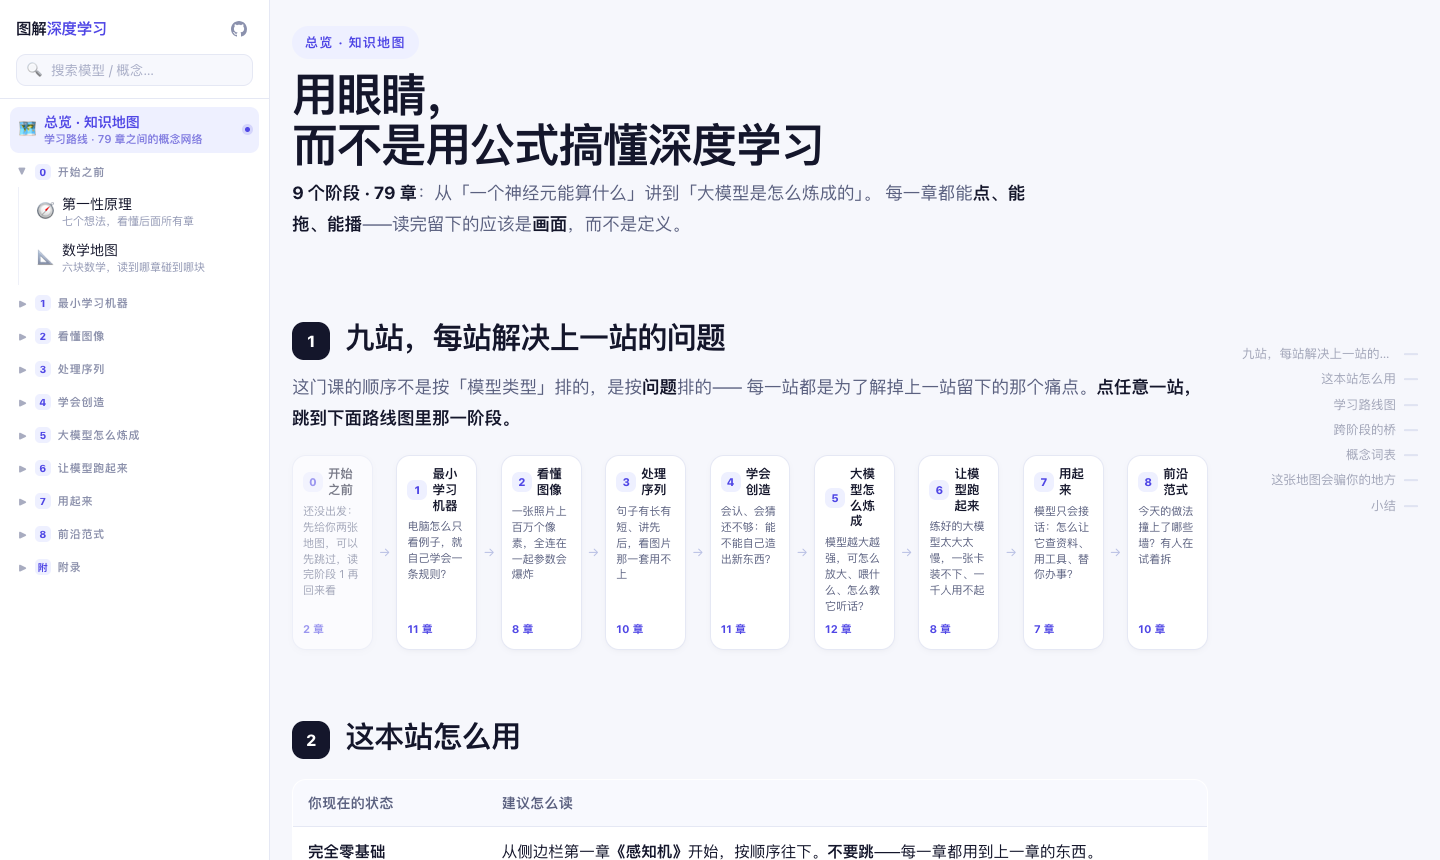
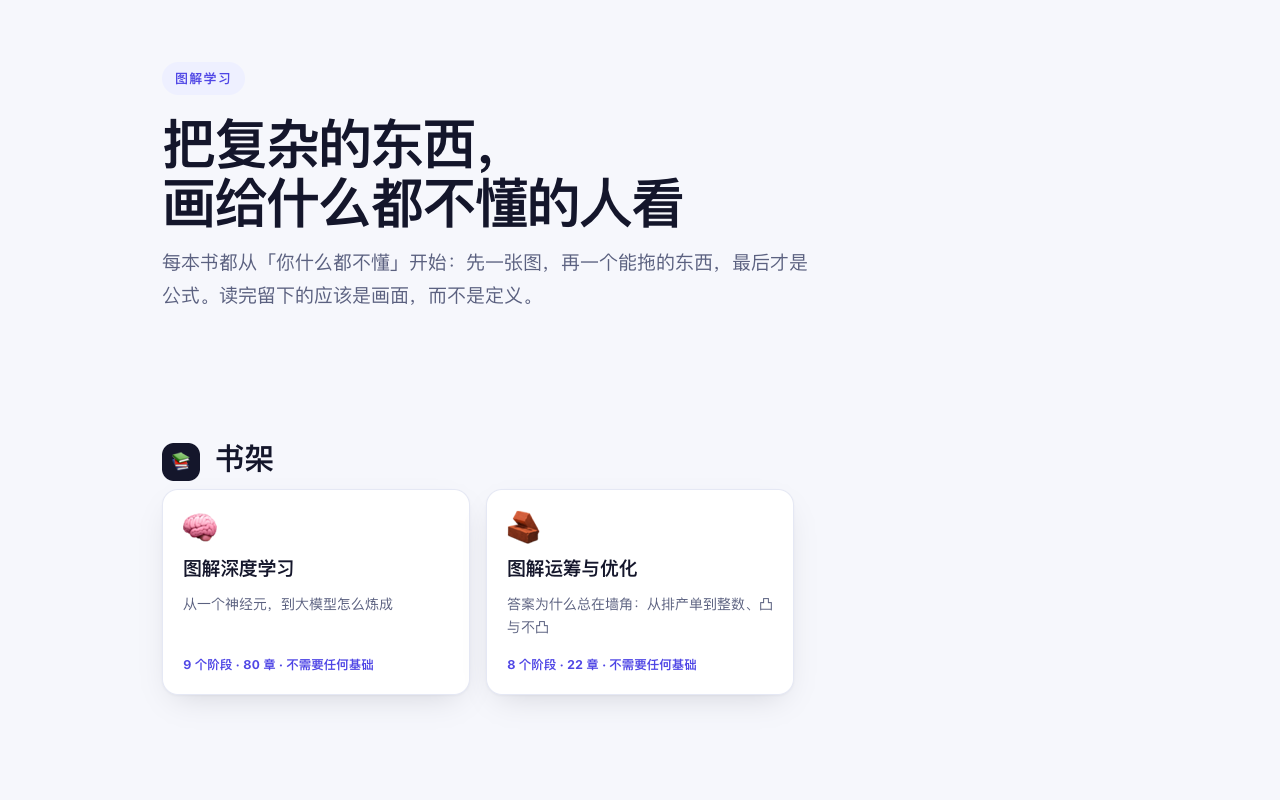
docs: turn the README into a two-book bookshelf, add the operations research book and refresh screenshots

diff --git a/README.md b/README.md
@@ -1,12 +1,12 @@
 <div align="center">
 
-# 图解深度学习
+# 图解学习
 
-**用眼睛，而不是用公式搞懂深度学习**
+**把复杂的东西，画给什么都不懂的人看**
 
-从「一个神经元能算什么」到「大模型到底在想什么」
+大图少字，能点能拖，读完留下的应该是画面，不是定义
 
-**9 个阶段 · 80 章 · 全部完成 · 完全免费**
+**2 本书 · 102 章 · 完全免费**
 
 ## 👉 [**learn.wizardwu.top**](https://learn.wizardwu.top) 👈
 
@@ -15,13 +15,33 @@
 [![断网可用](https://img.shields.io/badge/离线-可用-success)](https://learn.wizardwu.top)
 [![许可](https://img.shields.io/badge/内容-CC%20BY--NC--SA%204.0-lightgrey)](./LICENSE-CONTENT)
 
-**同一个站点还有第二本书：** 📚 [《图解运筹与优化》](https://learn.wizardwu.top/or/)（8 个阶段 · 18 章）——从一张排产单讲到整数、弯的世界，再讲到它和深度学习的关系。
-
 </div>
 
 <div align="center">
-  <img src="./assets/hero.png" alt="首页：学习路线图" width="880">
-  <br><br>
+  <img src="./assets/hero.png" alt="书架首页：两本书" width="880">
+</div>
+
+## 书架
+
+| | 书 | 讲什么 | 规模 | 入口 |
+|---|---|---|---|---|
+| 🧠 | **图解深度学习** | 从「一个神经元能算什么」到「大模型到底在想什么」 | 9 个阶段 · 80 章 | [在线读](https://learn.wizardwu.top/deeplearning) |
+| 🧱 | **图解运筹与优化** | 答案为什么总在墙角：从一张排产单，讲到整数、凸与不凸，再讲到它和深度学习的关系 | 8 个阶段 · 22 章 | [在线读](https://learn.wizardwu.top/or/) |
+
+两本书用同一套写法：每章先一张图，再一个能拖的东西，最后才是公式。不需要任何基础，不需要装环境。
+
+<div align="center">
+  <img src="./assets/dl-hero.png" alt="图解深度学习：学习路线图" width="430">
+  <img src="./assets/or-hero.png" alt="图解运筹与优化：总览" width="430">
+  <br>
+  <em>↑ 左：《图解深度学习》首页。右：《图解运筹与优化》首页。</em>
+</div>
+
+---
+
+## 《图解深度学习》
+
+<div align="center">
   <img src="./assets/demo.png" alt="五个优化器在同一片损失地形上赛跑" width="880">
   <br>
   <em>↑ 五个优化器在同一片峡谷地形上赛跑。SGD 沿谷底来回横跳，AdamW 直奔谷底。</em>
@@ -31,7 +51,7 @@
 
 ## 为什么会有这个网站
 
-网上的深度学习教程很多，但真正适合「完全不懂的人」的很少。常见的三种读不下去：
+网上讲深度学习、讲运筹优化的教程很多，但真正适合「完全不懂的人」的很少。常见的三种读不下去：
 
 | 读不下去的原因 | 这个网站怎么解决 |
 |---|---|
@@ -151,14 +171,14 @@ LoRA（大模型）     →  一致性模型  「压缩」
 | **分布式训练** | ZeRO 各阶段显存 112 → 38.5 → 26.25 → 14.0 GB |
 | **持续学习** | 真的训练一个网络演示灾难性遗忘，旧任务准确率断崖下跌 |
 
-规模上：**708 个 `<canvas>`**、**115 处内联 SVG 图解**、**2815 次交互组件调用**——每一个背后都是真的在算。
+深度学习这本书的规模：**708 个 `<canvas>`**、**115 处内联 SVG 图解**、**2815 次交互组件调用**——每一个背后都是真的在算。
 
 **零依赖 · 断网可用**：纯静态 HTML + CSS + 原生 JS。没有框架、没有构建步骤、没有 CDN。
-下载下来双击 `index.html` 就能看，飞机上也能看。
+下载下来双击 `index.html`（书架首页）就能看，飞机上也能看。
 
 ---
 
-## 课程地图
+### 课程地图
 
 | 部分 | 主题 | 章数 | 这一部分在讲什么 |
 |---|---|---|---|
@@ -305,8 +325,128 @@ LoRA（大模型）     →  一致性模型  「压缩」
 
 ---
 
+## 《图解运筹与优化》
+
+<div align="center">
+  <img src="./assets/or-demo.png" alt="把赚钱线从里往外推，看它最后停在哪个角" width="880">
+  <br>
+  <em>↑ 把「赚钱线」从里往外推：推到 c = 155 时，它只碰到一个点，一个角。这就是最优解为什么总在角上。</em>
+</div>
+
+### 这门学问只做一件事
+
+**在不超出限制的所有选法里，挑最好的那一个。** 全书只讲三步：把问题写成式子 → 换一个能算的写法 → 选一种保证（证明最优、给上下界、还是经验上够好）。
+
+### 四条贯穿全书的线
+
+| 线 | 它问什么 | 一句话 |
+|---|---|---|
+| ① 墙 | 为什么最好的方案总贴着限制？ | 东西不够用，好方案一定把某面墙用到头；贴着的墙因此有价钱 |
+| ② 界 | 凭什么说它已经是最好的？ | 一个方案从下面往上顶（底线），一张价表从上面往下压（天花板），两头贴住就是证明 |
+| ③ 形状 | 为什么有的问题一眨眼解完，有的永远算不完？ | 地是直的、碗是单个的，顺着走就行；有断、有坑，就只能试 |
+| ④ 写法 | 同一件事，怎么写才算得动？ | 变量、目标、墙怎么写，决定电脑算一秒还是一年；弱的写法可以削成强的 |
+
+第一性原理页「一张图看穿运筹」把四条线收成一张图：**底线往上顶，天花板往下压**。
+
+### 页面里真实发生的事
+
+| 章 | 你在页面上做的事 |
+|---|---|
+| **可行域与顶点** | 把赚钱线从原点往外推，推到 c = 155 时只剩一个角 |
+| **模型也会撒谎** | 同一道题两种写法，真答案都是 200；把 M 从 45 拖到 10⁶，最乐观的界从 148.9 一路掉到 100.002 |
+| **把弯的拧直** | 三台烤炉分单，最优时三根柱子一样高；把最远的客户挪远，书店最好的位置纹丝不动 |
+| **把「或者」写成式子** | 五条规矩一条条盖到 64 种方案上，亮着的越来越少 |
+| **一个模子套全世界** | 运输、指派、排班、覆盖、最短路，拆成同一副三格骨架 |
+| **每堵墙都有价钱** | 拖动烤箱额度，价格在哪里换档 |
+
+### 课程地图
+
+| 部分 | 主题 | 章数 |
+|---|---|---|
+| 开篇 | **开始之前** | 2 |
+| 1 | **把话变成式子** | 4 |
+| 2 | **线性世界** | 5 |
+| 3 | **整数世界** | 4 |
+| 4 | **图与时间** | 2 |
+| 5 | **弯的世界** | 2 |
+| 6 | **没有保证的时候** | 2 |
+| 7 | **出口** | 1 |
+| | **合计** | **22** |
+
+<details>
+<summary><b>展开全部 22 章（点标题直接进在线版）</b></summary>
+
+### 开篇 · 开始之前 —— 先补够用的数学
+
+| # | 章 | 一句话 |
+|---|---|---|
+| 0.1 | 🧭 **[一张图看穿运筹](https://learn.wizardwu.top/or/pages/essence.html)** | 底线往上顶，天花板往下压 |
+| 0.2 | 📐 **[够用的数学](https://learn.wizardwu.top/or/pages/prereq.html)** | 直线、不等式、斜率 |
+
+### 阶段 1 · 把话变成式子 —— 现实问题 → 变量、目标、约束
+
+| # | 章 | 一句话 |
+|---|---|---|
+| 1.1 | 🧾 **[一张排产单](https://learn.wizardwu.top/or/pages/model.html)** | 变量、目标、墙 |
+| 1.2 | 🗺 **[一个模子套全世界](https://learn.wizardwu.top/or/pages/zoo.html)** | 运输、指派、排班、覆盖、最短路 |
+| 1.3 | 🪞 **[模型也会撒谎](https://learn.wizardwu.top/or/pages/formulation.html)** | 同一题的胖写法与瘦写法 |
+| 1.4 | 🪢 **[把弯的拧直](https://learn.wizardwu.top/or/pages/tricks.html)** | 最大最小、绝对值、标准形 |
+
+### 阶段 2 · 线性世界 —— 全是直线的问题，最优在哪
+
+| # | 章 | 一句话 |
+|---|---|---|
+| 2.1 | 🔷 **[可行域与顶点](https://learn.wizardwu.top/or/pages/lp-geometry.html)** | 最优的那一点，为什么总卡在角上 |
+| 2.2 | 🚶 **[沿边走一圈](https://learn.wizardwu.top/or/pages/simplex.html)** | 从一个角走到更好的邻居 |
+| 2.3 | 🏷 **[每堵墙都有价钱](https://learn.wizardwu.top/or/pages/shadow-price.html)** | 墙挪一格，最优值变多少 |
+| 2.4 | 📜 **[答案的收据](https://learn.wizardwu.top/or/pages/duality.html)** | 弱对偶、强对偶：界把最优值夹在中间 |
+| 2.5 | 🌫 **[无解、无界、还有一堆解](https://learn.wizardwu.top/or/pages/lp-edge.html)** | 求解器报 infeasible 不是程序坏了 |
+
+### 阶段 3 · 整数世界 —— 东西必须整批，地形就碎了
+
+| # | 章 | 一句话 |
+|---|---|---|
+| 3.1 | 🧱 **[必须整批](https://learn.wizardwu.top/or/pages/integer.html)** | 四舍五入为什么会放跑最优 |
+| 3.2 | 🔀 **[把「或者」写成式子](https://learn.wizardwu.top/or/pages/logic.html)** | 最多选几个、若…则…、二选一 |
+| 3.3 | 🌳 **[把搜索画成树](https://learn.wizardwu.top/or/pages/bnb.html)** | 分支定界：界把整棵枝剪掉 |
+| 3.4 | ✂ **[把松弛削瘦](https://learn.wizardwu.top/or/pages/cuts.html)** | 割平面 |
+
+### 阶段 4 · 图与时间 —— 问题有结构，就别硬算
+
+| # | 章 | 一句话 |
+|---|---|---|
+| 4.1 | 🕸 **[管道、割与最短路](https://learn.wizardwu.top/or/pages/network.html)** | 最大流等于最窄的割 |
+| 4.2 | 🪜 **[一张表算到底](https://learn.wizardwu.top/or/pages/dp.html)** | 动态规划与贝尔曼 |
+
+### 阶段 5 · 弯的世界 —— 墙变弯了，还能找到最好的吗
+
+| # | 章 | 一句话 |
+|---|---|---|
+| 5.1 | 🥣 **[凸与非凸](https://learn.wizardwu.top/or/pages/convex.html)** | 一个碗 vs 一片群山 |
+| 5.2 | 🧲 **[力的平衡](https://learn.wizardwu.top/or/pages/kkt.html)** | 拉格朗日与 KKT |
+
+### 阶段 6 · 没有保证的时候 —— 未来不知道、问题太大算不完
+
+| # | 章 | 一句话 |
+|---|---|---|
+| 6.1 | 🎲 **[不知道未来](https://learn.wizardwu.top/or/pages/uncertainty.html)** | 情景与鲁棒 |
+| 6.2 | ⏱ **[够快也是一种答案](https://learn.wizardwu.top/or/pages/good-enough.html)** | 选哪种保证 |
+
+### 阶段 7 · 出口 —— 和深度学习是什么关系
+
+| # | 章 | 一句话 |
+|---|---|---|
+| 7.1 | 🔗 **[和深度学习是什么关系](https://learn.wizardwu.top/or/pages/or-ai.html)** | 训练、正则、对偶、整数 |
+
+</details>
+
+---
+
 ## 最近更新
 
+- **站点改成书架** —— 站点根现在是书架首页，《图解深度学习》搬到 `/deeplearning`，章节页地址不变
+- **《图解运筹与优化》大改版** —— 新增「一个模子套全世界」「把弯的拧直」「把『或者』写成式子」三章，共 22 章；每章对照资料重新核对，并经过独立复查，改掉了一批讲错的说法；补进 LP 四条假设、单纯形表、灵敏度范围、对偶构造规则、复杂度与 P/NP
+- **去模板味** —— 去掉每章同款的小结和衔接句，让每章长出自己的样子
 - **大纲调整** —— 新增「强化学习入门」「图神经网络」两章；「具身智能」并入「世界模型」、「从芯片到框架」并入「硬件与算力账本」、「集群」并入「分布式训练」；「多模态模型」挪到「学会创造」阶段；「让模型跑起来」改成先讲训练、后讲推理
 - **全站措辞统一** —— 阶段下的单位统一叫「章」，正文与导航一致
 - **正文提问块** —— 读者读到某处自然冒出的疑问，就地收纳成一个可展开的小块，点一下展开
@@ -320,6 +460,11 @@ LoRA（大模型）     →  一致性模型  「压缩」
 <details>
 <summary><b>需要什么基础？要装环境吗？</b></summary>
 <p>都不需要。不需要微积分、不需要线性代数、不需要装 Python。浏览器打开就能读，所有演示都在浏览器里跑。</p>
+</details>
+
+<details>
+<summary><b>两本书要按顺序读吗？</b></summary>
+<p>不用，两本书各自独立。运筹书最后一章讲它和深度学习的关系，想先看那一章也可以。</p>
 </details>
 
 <details>
@@ -366,11 +511,11 @@ LoRA（大模型）     →  一致性模型  「压缩」
 
 | | |
 |---|---|
-| 📝 **署名** | 注明来源「图解深度学习」并附上本站链接与许可证链接 |
+| 📝 **署名** | 注明来源「图解学习」（具体到哪本书）并附上本站链接与许可证链接 |
 | 🚫 **非商业** | 不得用于付费课程、企业付费培训等商业用途 |
 | 🔄 **相同方式共享** | 改编后发布，你的版本也必须使用同一许可 |
 
-「图解深度学习」这个名称不构成商标主张。文中引用的论文、教材与博客，知识产权归原作者。
+「图解学习」「图解深度学习」「图解运筹与优化」这些名称不构成商标主张。文中引用的论文、教材与博客，知识产权归原作者。
 
 ---
 
